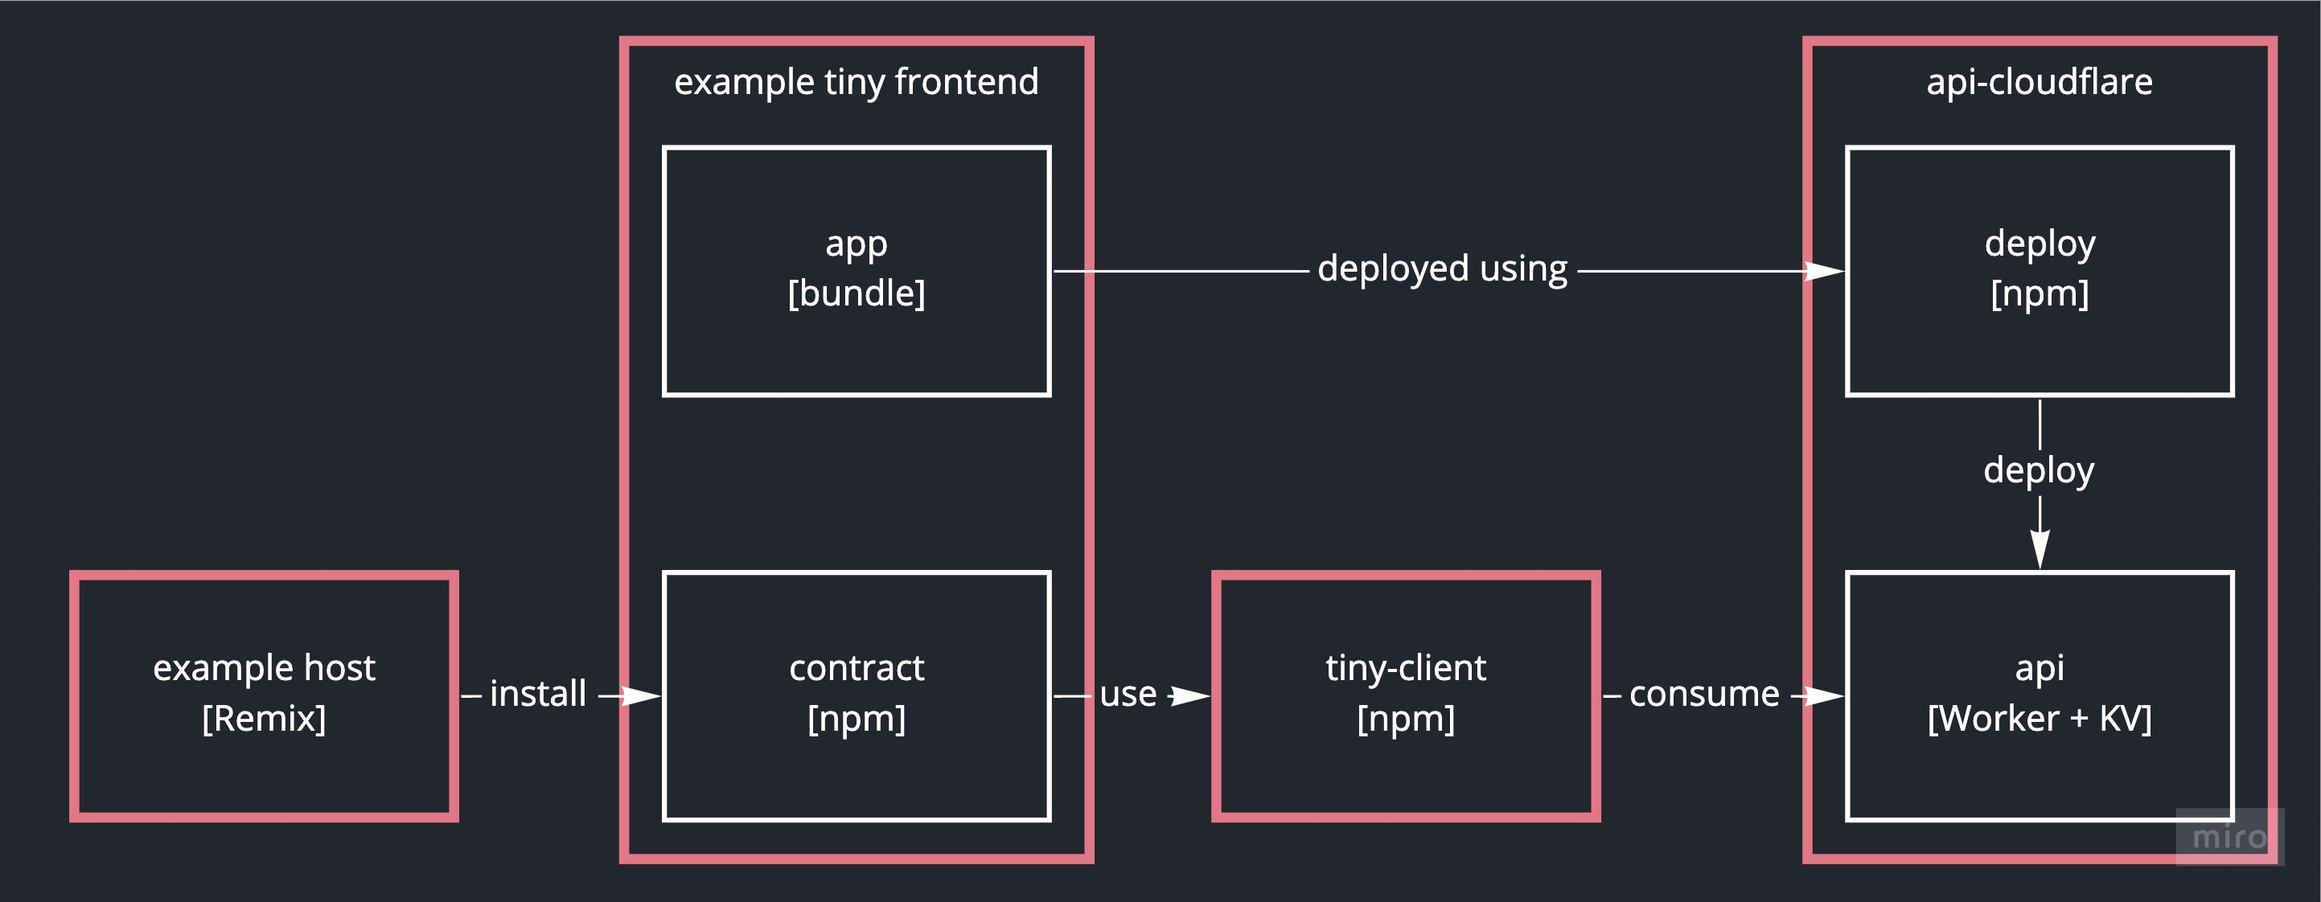
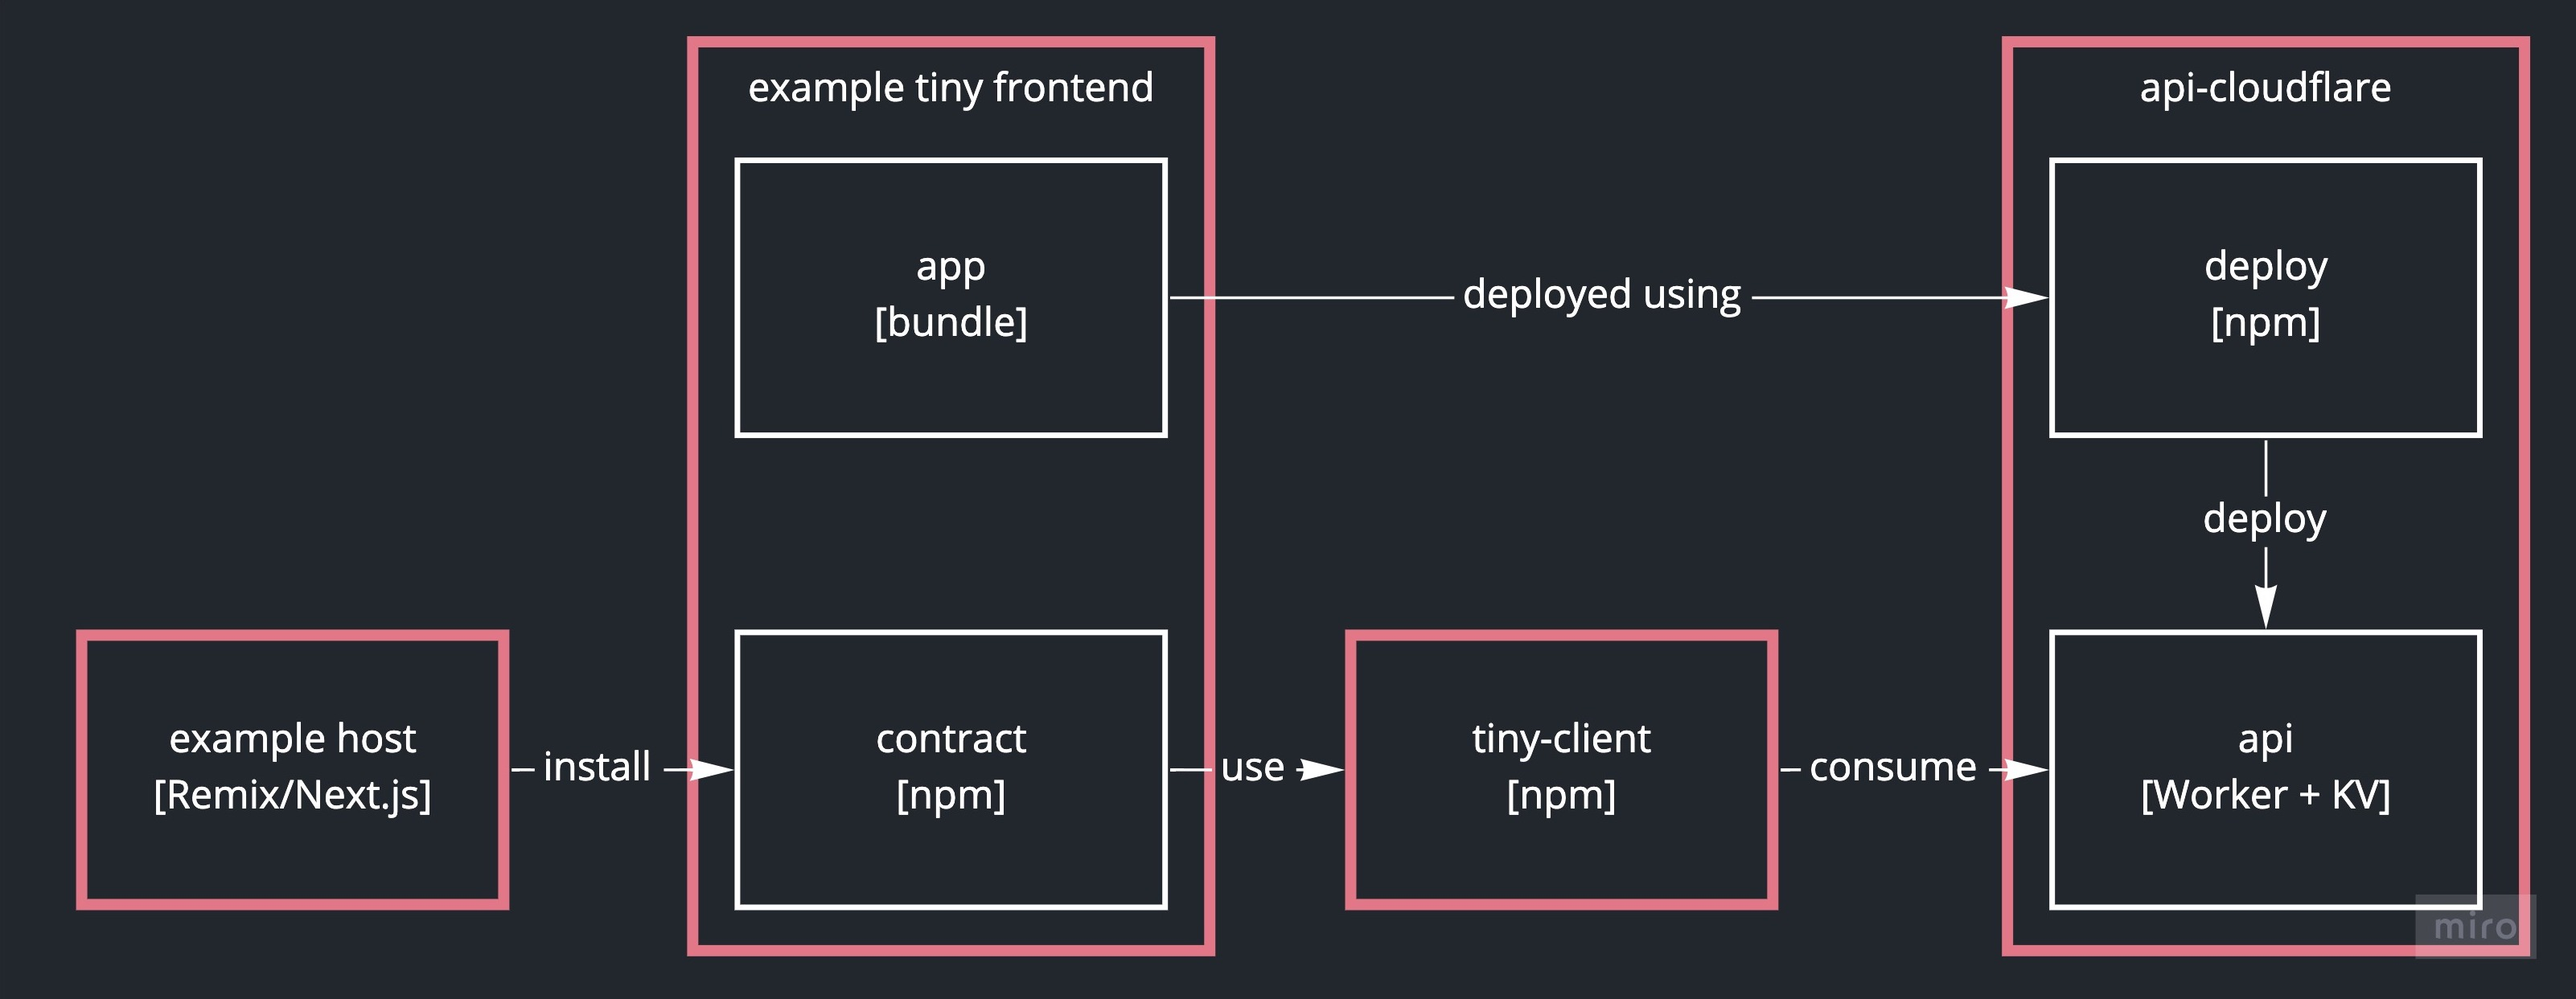
feature: add Next.js (#1)
* add Next.js example to documentation

* improve home page

diff --git a/docs/.vuepress/config.ts b/docs/.vuepress/config.ts
@@ -40,7 +40,7 @@ export default defineUserConfig<DefaultThemeOptions>({
     '/': {
       lang: 'en-US',
       title: 'tiny frontend',
-      description: 'Example micro frontend architecture using Remix',
+      description: 'Example micro frontend architecture',
     },
   },
 
@@ -62,7 +62,8 @@ export default defineUserConfig<DefaultThemeOptions>({
           '/guide/about.md',
           '/guide/architecture.md',
           '/guide/deploy.md',
-          { text: 'Example Remix host', link: 'https://tiny-frontend-example-host-remix.fly.dev/' },
+          { text: 'Example Remix host', link: 'https://tiny-frontend-example-host-remix.fly.dev/', },
+          { text: 'Example Next.js host', link: 'https://example-host-nextjs.vercel.app/' },
         ],
 
         // page meta

diff --git a/docs/guide/architecture.md b/docs/guide/architecture.md
@@ -11,7 +11,9 @@ There are four of them:
 
 - [example tiny frontend](https://github.com/tiny-frontend/example-tiny-frontend): A simple micro frontend to be deployed and consumed
 - [api-cloudflare](https://github.com/tiny-frontend/api-cloudflare): an API using Cloudflare Workers where the latest bundle for that micro frontend is deployed
-- [example-host-remix-node](https://github.com/tiny-frontend/example-host-remix-node): An example Remix app consuming that micro frontend
+- Example host:
+  - [example-host-remix-node](https://github.com/tiny-frontend/example-host-remix-node): An example Remix app consuming that micro frontend
+  - [example-host-nextjs](https://github.com/tiny-frontend/example-host-nextjs): An example Next.js app consuming that micro frontend
 - [tiny-client](https://github.com/tiny-frontend/tiny-client): A small library to consume the micro frontend at runtime
 
 ## Example Tiny Frontend
@@ -137,9 +139,14 @@ This is currently [not supported on Cloudflare Workers](https://developers.cloud
 You can however still use the client side only version in that case.
 :::
 
-## Example Remix Host
+## Example Hosts
 
-This is just regular Node.js Remix app [deployed on Fly.io](https://fly.io/) that have the Example Tiny Frontend `contract` as an npm dependency.
+There are two example hosts:
+
+- A [Remix app](https://github.com/tiny-frontend/example-host-remix-node) deployed on [Fly.io](https://fly.io/)
+- A [Next.js app](https://github.com/tiny-frontend/example-host-nextjs) deployed on [Vercel](https://vercel.com/)
+
+They both have the Example Tiny Frontend `contract` as an npm dependency.
 
 As everything is better explained with a meme:
 
@@ -147,7 +154,9 @@ As everything is better explained with a meme:
 <img alt="" src="/images/docs/consume-tiny-fe-meme.jpg" width="450" />
 </p>
 
-### Client side only
+### Remix
+
+#### Client side only
 
 To consume the example tiny frontend on client side, [we simply load it in a `useEffect`](https://github.com/tiny-frontend/example-host-remix-node/blob/main/app/routes/client-side-only.tsx#L25) by calling `loadExampleTinyFrontendClient` and passing the URL of our `tiny-api`.
 
@@ -156,11 +165,11 @@ While the tiny frontend is loading, we show a `Loading...` label.
 When the tiny frontend is loaded, we set the component we receive in a `useState`.
 We then simply renders it like any other `React` component 🐰 .
 
-### Server side (SSR) with client side rehydration
+#### Server side (SSR) with client side rehydration
 
 This is a bit more involved, but still rather straightforward.
 
-#### On the server
+##### On the server
 
 In [`entry.server.ts` we load the tiny frontend](https://github.com/tiny-frontend/example-host-remix-node/blob/main/app/entry.server.tsx#L13) by calling `loadExampleTinyFrontendServer` before rendering happens.
 
@@ -174,7 +183,7 @@ Finally, once we rendered, [we replace `__TINY_FRONTEND_SSR__`](https://github.c
 Our Remix app is now loading that tiny frontend on the server and rendering it ✨!
 Let's see what we need to add to be able to rehydrate.
 
-#### On the client
+##### On the client
 
 In [`entry.client.ts` we load the tiny frontend](https://github.com/tiny-frontend/example-host-remix-node/blob/main/app/entry.client.tsx#L6) by calling `loadExampleTinyFrontendClient` before rehydration.
 
@@ -182,10 +191,44 @@ We then [use the client side loaded component in our Remix route](https://github
 
 And... That's it, we now have **fully working, independently deployed frontend component, with SSR and rehydration** 😱 !
 
+### Next.js
+
+#### Client side only
+
+To consume the example tiny frontend on client side, [we simply load it in a `useEffect`](https://github.com/tiny-frontend/example-host-nextjs/blob/main/pages/client-side-only.tsx#L27) by calling `loadExampleTinyFrontendClient` and passing the URL of our `tiny-api`.
+
+While the tiny frontend is loading, we show a `Loading...` label.
+
+When the tiny frontend is loaded, we set the component we receive in a `useState`.
+We then simply renders it like any other `React` component 🐰 .
+
+#### Server side (SSR) with client side rehydration
+
+This is a bit more involved, but still rather straightforward.
+
+##### On the server
+
+In [`_document.ts` we load the tiny frontend](https://github.com/tiny-frontend/example-host-nextjs/blob/main/pages/_document.tsx#L61) by calling `loadExampleTinyFrontendServer` before rendering happens.
+We also inject the JS and CSS script tags for the Tiny Frontend [in the document head](https://github.com/tiny-frontend/example-host-nextjs/blob/main/pages/_document.tsx#L28).
+
+We then [use the server side loaded component in our Next.js page](https://github.com/tiny-frontend/example-host-nextjs/blob/main/pages/ssr.tsx#L11).
+
+Our Next.js app is now loading that tiny frontend on the server and rendering it ✨!
+Let's see what we need to add to be able to rehydrate.
+
+##### On the client
+
+We create [a client side version of our component](https://github.com/tiny-frontend/example-host-nextjs/blob/main/components/ExampleTinyFrontend/ExampleTinyFrontend.client.tsx#L9) that can load itself on the client and suppresses hydration warnings using the [`withHydrationSuppress` HOC](https://github.com/tiny-frontend/tiny-client-react/blob/main/src/withHydrationSuppress.tsx#L16).
+This uses the same technique as [react-lazy-hydration](https://www.npmjs.com/package/react-lazy-hydration).
+
+We then [use the client side component in our Next.js page](https://github.com/tiny-frontend/example-host-nextjs/blob/main/pages/ssr.tsx#L11) when the Server side component is undefined.
+
+And... That's it, we now have **fully working, independently deployed frontend component, with SSR and rehydration** 😱 !
+
 ## Current known limitations
 
 :::tip
-Below is a list of limitations **I'm currently aware of** with the example Remix host.
+Below is a list of limitations **I'm currently aware of** with the example hosts.
 Contributions are welcome to help solve them, or to add new limitations to the list 😉 .
 :::
 
@@ -200,7 +243,7 @@ We just haven't done it in this example.
 This could potentially be fixed with a more involved implementation.
 We could for example imagine "collecting" rendered components on server on a route, and only loading those before client rehydration.
 
-However, that solution probably would require some new hooks in Remix, for example async client side route transitions guards.
+However, that solution probably would require some new hooks in Remix or Next.js, for example async client side route transitions guards.
 
 :::tip
 This could also be solved using [Suspense for data fetching on SSR](https://github.com/reactwg/react-18/discussions/37) in React 18,
@@ -209,7 +252,7 @@ as a tiny frontend could be loaded as part of a Suspense boundary when a given r
 
 #### 💿  The tiny frontend can't load its own data before SSR
 
-The tiny frontend might be able to provide some kind of data loader, but again this might require some hooks in Remix to call them at the right time.
+The tiny frontend might be able to provide some kind of data loader, but again this might require some hooks in Remix or Next.js to call them at the right time.
 
 :::tip
 Once again [Suspense for data fetching on SSR](https://github.com/reactwg/react-18/discussions/37) in React 18 could save us here,

diff --git a/docs/README.md b/docs/README.md
@@ -6,7 +6,22 @@ actions:
 - text: How does it work?
   link: /guide/about.html
   type: primary
-- text: View example Remix host
+- text: Example Remix host
   link: https://tiny-frontend-example-host-remix.fly.dev/
   type: secondary
+- text: Example Next.js host
+  link: https://example-host-nextjs.vercel.app/
+  type: secondary
+features:
+- title: 📦 Runtime npm
+  details: Want to extract a component used in your org as an npm package, but don't want a build time dependency? This is for you.
+- title: 🤝 Typesafe
+  details: The npm package acts as a contract and provides types and peer dependencies requirements to the host.
+- title: ⚡ SSR Support
+  details: Share components that require server side rendering, such as header and footer, across your organisation. 
 ---
+
+<p style="text-align: center">
+MIT Licensed | Made with ❤ by <a href="https://twitter.com/BaronAdri" target="_blank">Adrien Baron</a>
+</p>
+

diff --git a/docs/guide/about.md b/docs/guide/about.md
@@ -8,7 +8,7 @@
 - An example of implementation of a micro frontend architecture
 - Aimed at solving "horizontal" slicing
 
-In one picture: we're trying to **deploy the pink boxes independently** of our Remix host app:
+In one picture: we're trying to **deploy the pink boxes independently** of our host app:
 
 ![](/images/docs/horizontal-slicing.jpg)
 
